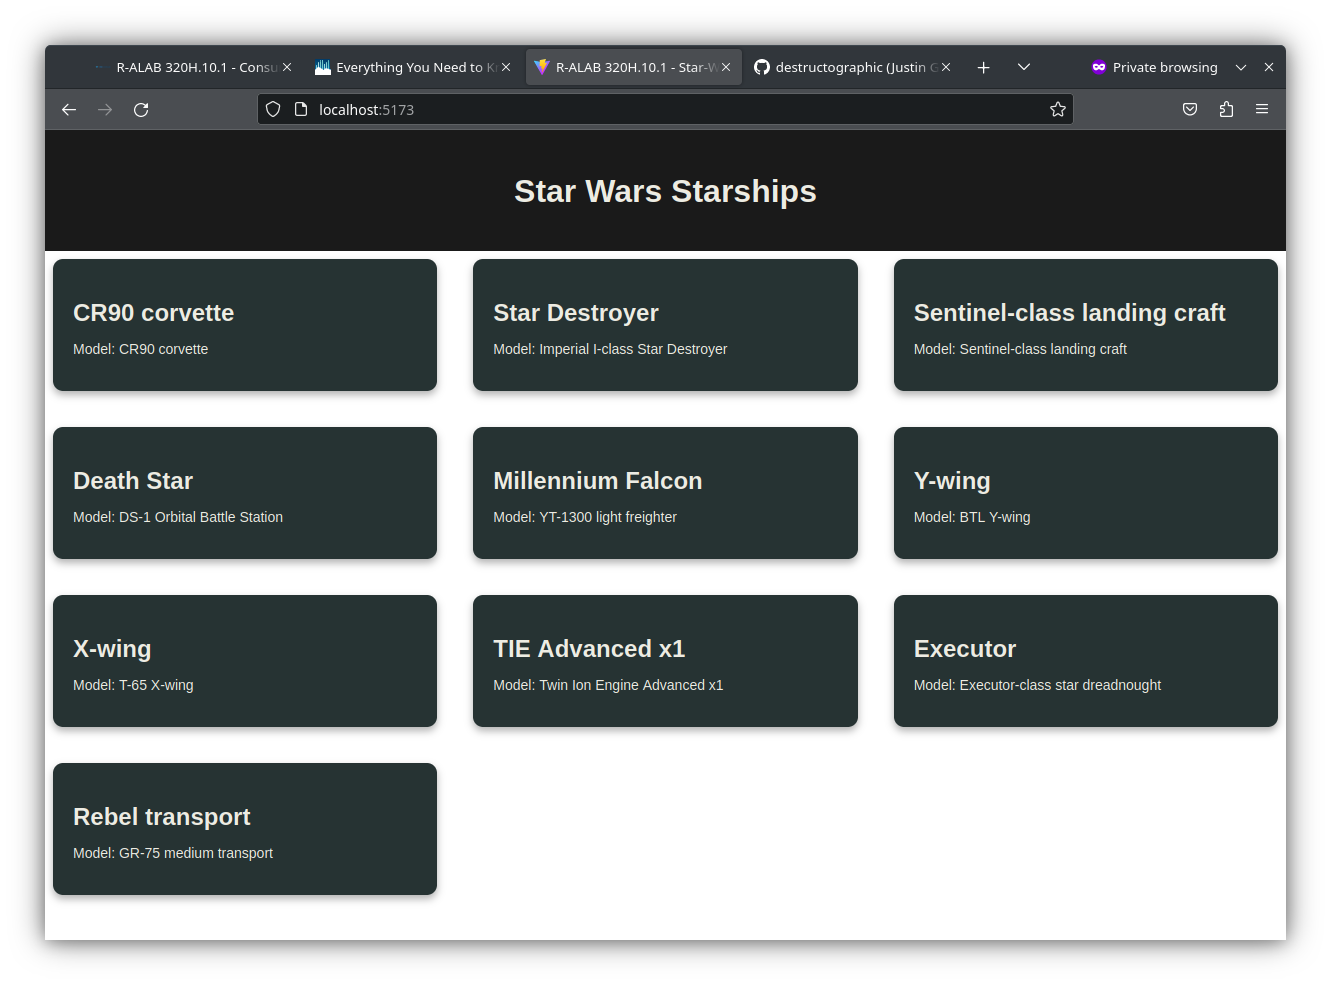
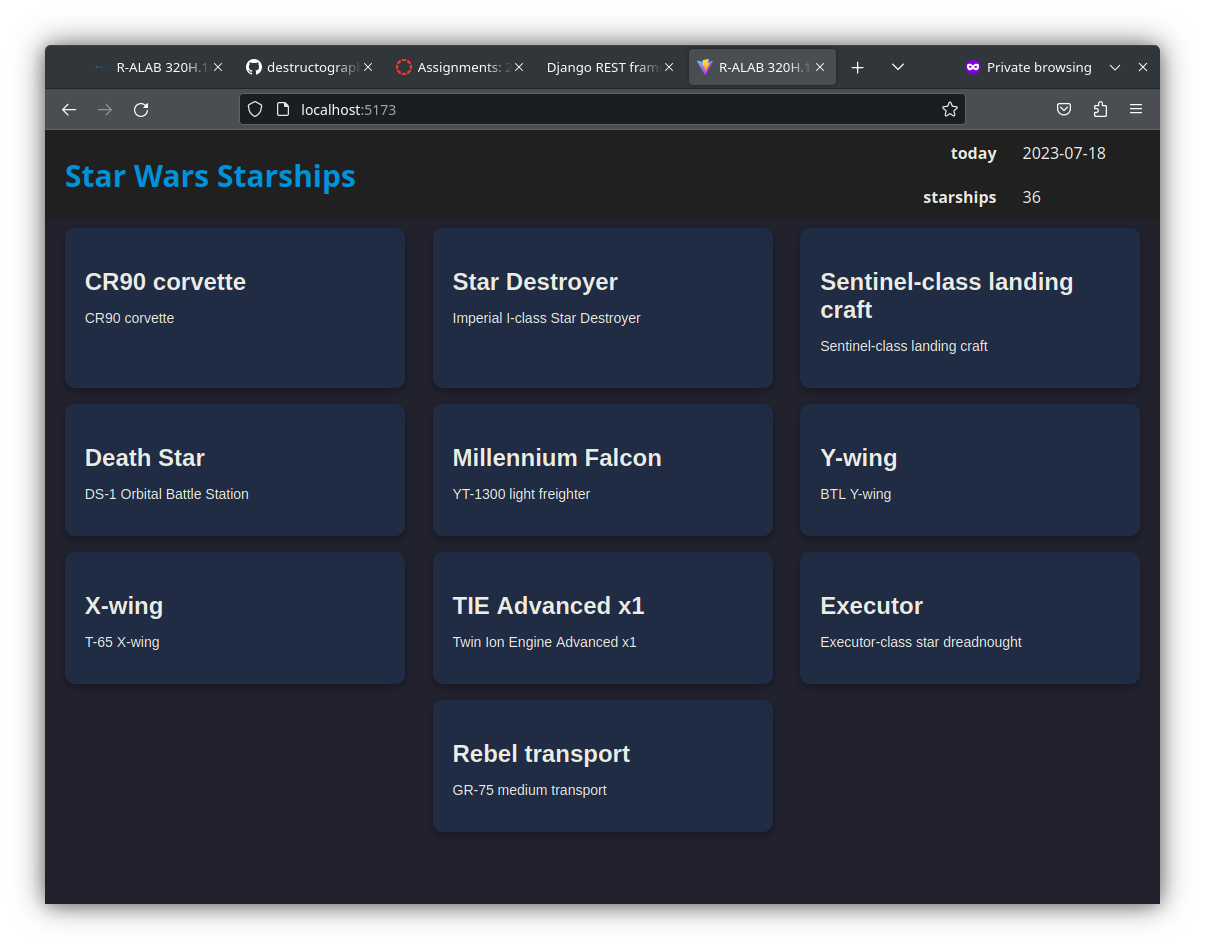
added addtl stylings and "loading..." message.

diff --git a/src/App.jsx b/src/App.jsx
@@ -6,7 +6,7 @@ import Card from './components/Card/Card';
 import { getAllStarships } from './services/sw-api';
 
 const App = () => {
-  const [starshipsData, setStarshipsData] = useState(null); // Store the data object containing count and starships
+  const [starshipsData, setStarshipsData] = useState(null); // sore the data object containing count and starships
   const [isLoading, setIsLoading] = useState(true);
   const [selectedStarship, setSelectedStarship] = useState(null);
 
@@ -14,7 +14,7 @@ const App = () => {
     getAllStarships()
       .then((data) => {
         console.log('Fetched starships data:', data);
-        setStarshipsData(data); // Set the starshipsData object
+        setStarshipsData(data); // set the starshipsData object
         setIsLoading(false);
       })
       .catch((error) => {
@@ -32,7 +32,7 @@ const App = () => {
       <Navbar title="Star Wars Starships" starshipsCount={starshipsData ? starshipsData.count : 0} />
       <div className="card-container">
         {isLoading ? (
-          <p>Loading...</p>
+          <p className="loading-message">Loading...</p>
         ) : (
           starshipsData && starshipsData.starships.map((starship) => (
             <Card key={starship.name} name={starship.name} model={starship.model} onClick={() => handleCardClick(starship)} />

diff --git a/src/App.css b/src/App.css
@@ -1,10 +1,11 @@
 /* /src/App.css */
 
 :root {
-  --primary-bg-color: #1a1a1a;
+  --primary-bg-color: #22222f;
   --primary-text-color: #edece3;
-  --card-bg-color: #263333;
-  --card-text-color: #edece3;
+  --bright-deco-text: rgb(0, 146, 219);
+  --navbar-bg-color: #202020;
+  --card-bg-color: rgba(0, 128, 255, 0.1);
   --font-family: 'Helvetica Neue', Arial, sans-serif;
 }
 
@@ -12,6 +13,7 @@ body {
   margin: 0;
   padding: 0;
   font-family: var(--font-family);
+  background-color: var(--primary-bg-color);
 }
 
 .app {
@@ -26,5 +28,9 @@ body {
 .loading-message {
   font-size: 36px;
   text-align: center;
-  margin-top: 200px; /* center the message vertically */
+  color: var(--bright-deco-text);
+  display: flex;
+  justify-content: center;
+  align-items: center;
+  height: calc(100vh - 70px);
 }

diff --git a/src/components/Card/Card.css b/src/components/Card/Card.css
@@ -7,27 +7,26 @@
 }
 
 .card {
-  background-color: var(--card-bg-color, #333333);
-  color: var(--card-text-color, #ffffff);
+  background-color: var(--card-bg-color); /* rgba(0, 128, 255, 0.1) */
+  color: var(--primary-text-color);
   box-shadow: 0 4px 8px rgba(0, 0, 0, 0.3);
   cursor: pointer;
   border-radius: 10px;
   margin: 8px;
   padding: 20px;
-  width: 300px; /* Add a fixed width to the card */
+  width: 300px; /* add a fixed width to the card */
 }
 
 .card-title {
   font-size: 24px;
   font-weight: bold;
   margin-bottom: 8px;
-  /* Allow the title text to wrap to the next line */
   word-wrap: break-word;
 }
 
 .starship-model {
   font-size: 14px;
   font-weight: normal;
-  /* Allow the model text to wrap to the next line */
+
   word-wrap: break-word;
 }

diff --git a/src/components/Navbar/Navbar.css b/src/components/Navbar/Navbar.css
@@ -1,19 +1,18 @@
 /* components/Navbar/Navbar.css */
-/* components/Navbar/Navbar.css */
 .navbar {
-  background-color: var(--primary-bg-color);
-  color: var(--primary-text-color);
+  background-color: var(--navbar-bg-color);
+  color: var(--bright-deco-text);
   display: flex;
   justify-content: space-between;
   align-items: center;
-  font-family: 'Open Sans', sans-serif; /* sans-serif font */
-  width: 100%; /* Make the navbar occupy the full width */
-  padding: 10px; /* Add padding as needed */
-  box-sizing: border-box; /* Include padding in the total width */
+  font-family: 'Open Sans', sans-serif;
+  width: 100%;
+  padding: 0 20px;
+  box-sizing: border-box;
 }
 
 
 .navbar-title {
-  font-size: 24px;
+  font-size: 30px;
   font-weight: bold;
 }
